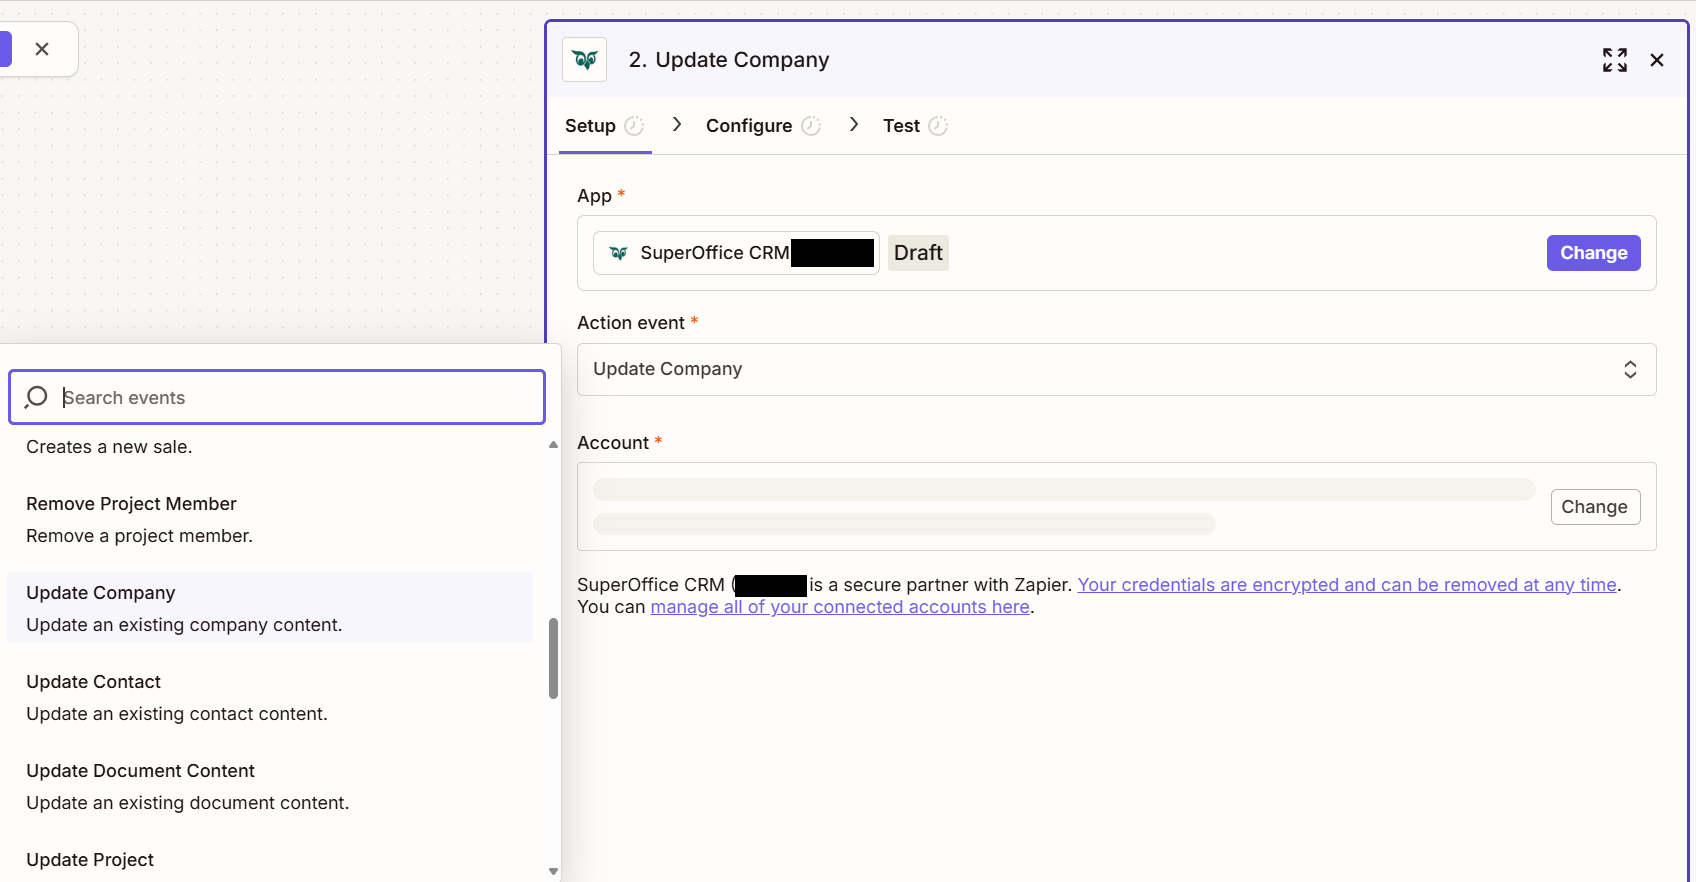
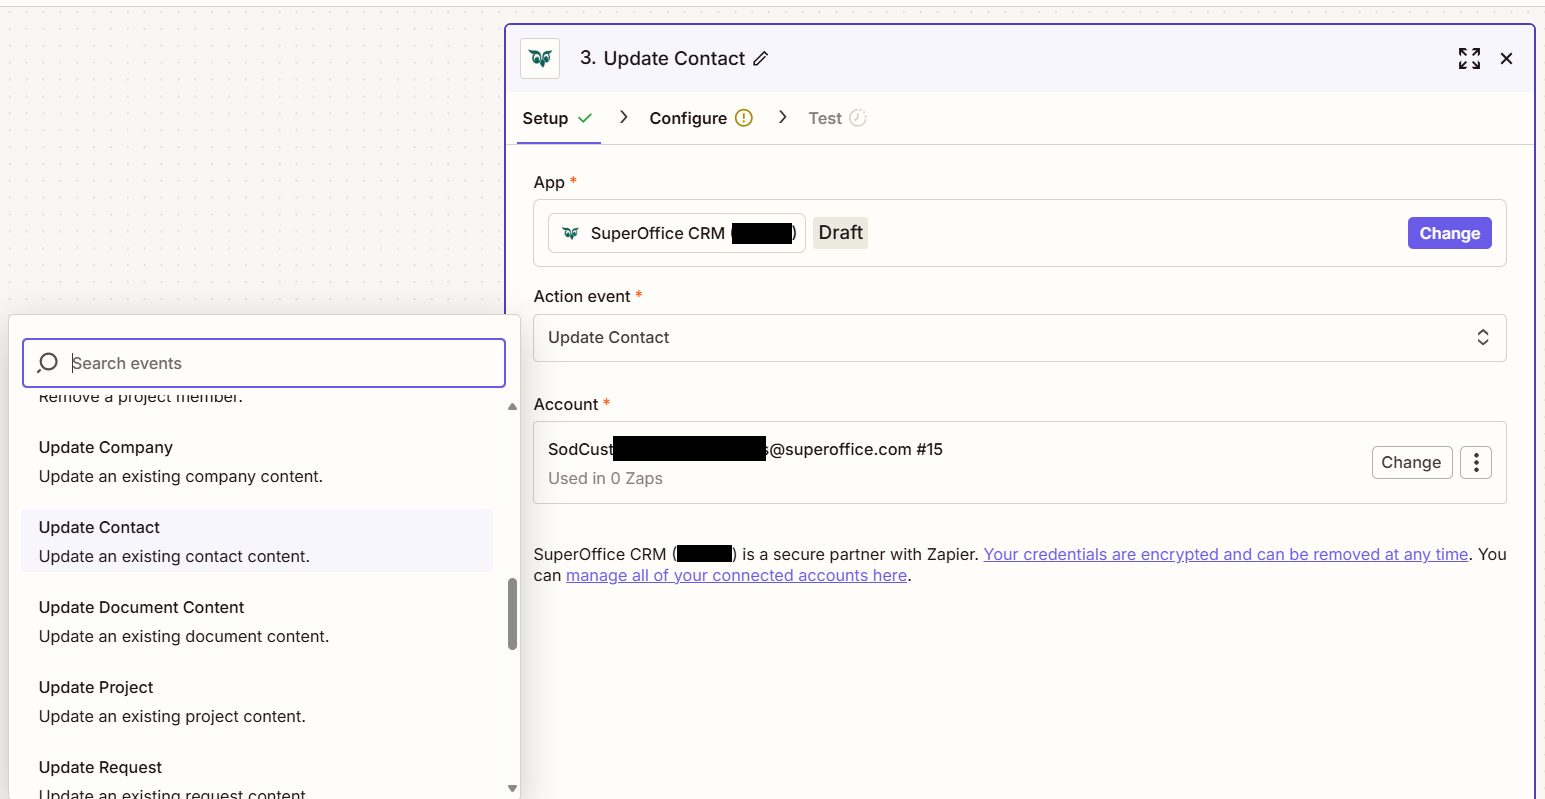
Added Update Contact Action documentation

Changed region(s): [[0.0, 0.0, 1.0, 1.0], [0.0, 0.0, 0.0621, 0.0901], [0.3107, 0.9612, 0.3417, 0.9912]]

diff --git a/integrations/zapier/howto/update-contact.md b/integrations/zapier/howto/update-contact.md
@@ -1,0 +1,66 @@
+---
+uid: zapier-update-contact
+title: Update SuperOffice CRM contact
+description: How to update SuperOffice contact with Zapier
+keywords: Update contact, new Zap, Zapier update action
+author: miguellemos95
+date: 10.29.2025
+content_type: howto
+functional_right: general administrator
+category: integration
+topic: Zapier
+platform: Zapier
+language: en
+---
+
+# Update SuperOffice CRM contact
+
+> [!NOTE]
+> To be able to create Zaps, you must connect a SuperOffice CRM account that has **General Administrator** user rights.
+
+## Steps
+
+1. On the page that lists all your Zaps, click **Create**. You will be taken to a new Zap creation window.
+
+    ![Zapier: Create a new Zap -screenshot][img1]
+
+1. Create your **Trigger** by clicking on it. It can be an action in Google Sheets or another action in external systems or a part of SuperOffice.
+
+    ![Zapier: Create your trigger -screenshot][img2]
+
+1. Click on **Action**. You will be taken to a window from which you can select the application you want to use. Search for and click on SuperOffice.
+
+    ![Zapier: Select your action -screenshot][img3]
+
+1. A side menu will open, in the **Action event** section, select **Update Contact**, then click the **Account** section and log in using your SuperOffice account.
+
+    ![Set up your action -screenshot][img4]
+
+1. Click on the **Continue** button at the bottom of the side panel and you will be taken to the **Configure** step.
+
+1. Fill out the mandatory fields **Contact id** and optionally other fields.
+
+    ![Fill out your action -screenshot][img5]
+
+1. Check that the action works by clicking **Test step**.
+
+1. If the above steps were configured correctly, the response should consist of **Contact id**, **Our contact id**, **Our contact**, **Mr/Mrs**, **First name**, **Middle name**, **Last name**, **Full name**, **Title**, **Created date**, **Created by**, **Updated date**, **Updated by**, **Note**, **Company id**, **Company name**, **Home address 1**, **Home address 2**, **Home address 3**, **Home city**, **Home State**, **Home county**, **Home zip code**, **Birthdate**, **E-mail**, **Private phone**, **Direct faxes**, **Mobile phone**, **Direct phone**, **Other phone**, **Chat**, **Internet Phones**, **Position id**, **Position**, **Number**, **Web site**, **Category id**, **Category**, **Business id**, **Business**, **Country id**, **Country**, **Service priority**, **Our service contact**, **Our service contact id**, **Academic title**, **Use as postal address**, **Preferred language**, **Former employee**, **Self URL**, **Person interests**, **E-marketing subscription types**, **Consent Sales And Service Purpose**, **Consent Sales And Service Legal Basis**, **Consent Sales And Service Source**, **Consent Sales And Service Comment**
+
+    ![Zapier: Verify -screenshot][img6]
+
+## Related content
+
+* [Update contact][1]
+* [Create a Zap with SuperOffice CRM][2]
+
+<!-- Referenced links -->
+[1]: update-contact.md
+[2]: ../get-started/create-zap.md
+
+<!-- Referenced images -->
+[img1]: media/create-zap.png
+[img2]: media/new-zap-window.png
+[img3]: media/search-superoffice-in-zapier.png
+[img4]: media/update-contact-action.png
+[img5]: media/update-contact-window.png
+[img6]: media/update-contact-output.png
